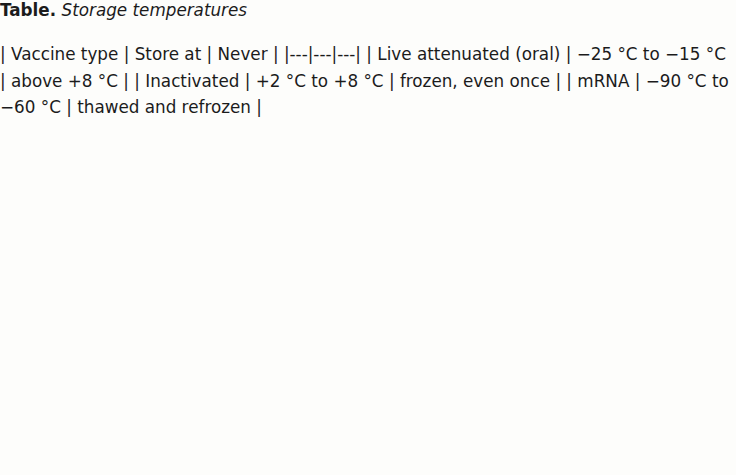
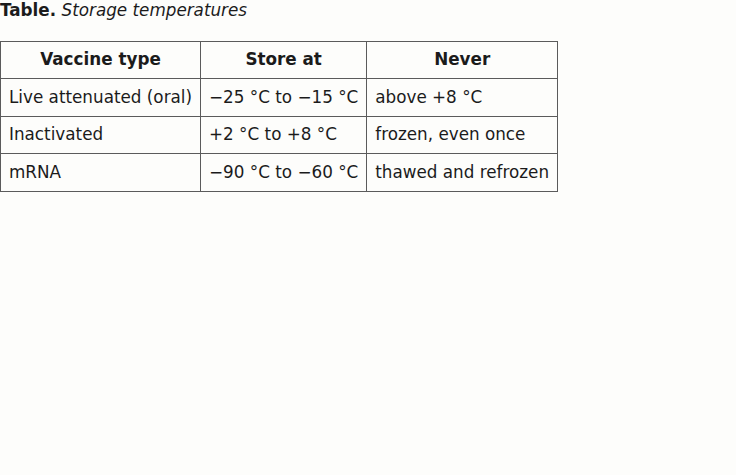
staging(claude-ojcx-edit-handbook): from 746c988705f2138c0e3cae71f51c08640db1aba7
render-log: rendered STAGING/claude-ojcx-edit-handbook

https://github.com/litlfred/folio-test/actions/runs/36095716464

diff --git a/STAGING/claude-ojcx-edit-handbook/review/index.html b/STAGING/claude-ojcx-edit-handbook/review/index.html
@@ -57,7 +57,11 @@
   .heatwrap { overflow-x: auto; margin: 1rem 0; }
   table.heat { border-collapse: separate; border-spacing: 2px; font-size: .95rem; }
   table.heat caption { text-align: left; color: var(--muted); padding-bottom: .4rem; }
-  table.heat th, table.heat td { padding: .35rem .6rem; text-align: left; border-radius: .25rem; }
+  table.heat th, table.heat td { padding: .35rem .6rem; text-align: left; border-radius: .25rem; overflow-wrap: anywhere; }
+  /* Fit the width rather than scroll sideways: a keyboard user cannot reach a
+     scrolled-off column (the ojcx run clipped QA at 1000 px). The wrapper is
+     still focusable, for the narrowest screens. */
+  table.heat { width: 100%; }
   table.heat thead th { font-weight: 600; border-bottom: 1px solid var(--rule); }
   table.heat td { font-variant-numeric: tabular-nums; }
   .h1 { background: #86b6ef; color: #1b1b1b; } .h2 { background: #3987e5; color: #1b1b1b; } .h3 { background: #1c5cab; color: #ffffff; }
@@ -85,13 +89,13 @@ function fill(d,f,r){
   var rel=location.pathname.slice(r.length);
   if(rel===''||rel.charAt(rel.length-1)==='/')rel+='index.html';
   if(!f.mainPagesKnown){
-    d.appendChild(link(f.mainSite+'/','compare with main \u2197'));
+    d.appendChild(link(f.mainSite+'/','compare with '+(f.beforeRef||'main')+' \u2197'));
   }else if(f.newPages.indexOf(rel)>=0){
-    d.appendChild(link(f.mainSite+'/','main \u2197'));
+    d.appendChild(link(f.mainSite+'/',(f.beforeRef||'main')+' \u2197'));
     d.appendChild(document.createTextNode(' '));
     d.appendChild(el('span',{style:'opacity:.85'},'(new page)'));
   }else{
-    d.appendChild(link(f.mainSite+'/'+rel,'compare with main \u2197'));
+    d.appendChild(link(f.mainSite+'/'+rel,'compare with '+(f.beforeRef||'main')+' \u2197'));
   }
   d.appendChild(sep());d.appendChild(link(f.runUrl,'build log'));
   stamp(f);
@@ -131,7 +135,7 @@ window.addEventListener('resize',measure);window.addEventListener('load',measure
   <a href="../index.html">All documents</a>
 </div>
 <div class="viewrow"><label for="view">Show every change as</label> <select id="view"></select></div>
-<div id="heat" class="heatwrap"></div>
+<div id="heat" class="heatwrap" tabindex="0" role="region" aria-label="Heat map: where to look first"></div>
 <div id="changes"></div>
 </main>
 </div>
@@ -344,7 +348,7 @@ var renderVisual = function renderVisual(doc, v, prefix, group) {
   const lg = doc.createElement("legend");
   lg.textContent = "Show";
   fs.appendChild(lg);
-  const stage = doc.createElement("div"), show = (i) => {
+  const stage = doc.createElement("div"), has = (s) => !!(s && s.png), first = views.findIndex(([id]) => id === "diff" || id === "after" && has(v.after) || id === "before" && has(v.before)), start = first < 0 ? 0 : first, show = (i) => {
     while (stage.firstChild)
       stage.removeChild(stage.firstChild);
     stage.appendChild(views[i][2]());
@@ -354,7 +358,7 @@ var renderVisual = function renderVisual(doc, v, prefix, group) {
     r.type = "radio";
     r.name = group;
     r.value = id;
-    r.checked = i === 0;
+    r.checked = i === start;
     r.addEventListener("change", () => show(i));
     l.appendChild(r);
     l.appendChild(doc.createTextNode(" " + label));
@@ -362,7 +366,7 @@ var renderVisual = function renderVisual(doc, v, prefix, group) {
   });
   box.appendChild(fs);
   box.appendChild(stage);
-  show(0);
+  show(start);
   return box;
 };
 var computeHeat = function computeHeat(input) {
@@ -370,7 +374,7 @@ var computeHeat = function computeHeat(input) {
     const k = s || "(listed in no section)";
     let r = rows.get(k);
     if (!r) {
-      r = { section: k, changed: 0, open: 0, defects: 0, stale: 0, qaFailing: 0, qaWorst: null, qaStale: 0, qaUnaudited: 0, qaBlocks: 0, needReview: 0, reviewed: 0 };
+      r = { section: k, changed: 0, open: 0, defects: 0, stale: 0, qaFailing: 0, qaWorst: null, qaStale: 0, qaUnaudited: 0, qaScriptsOnly: 0, qaNeedsAgent: 0, qaJudgedUnknown: 0, qaBlocks: 0, needReview: 0, reviewed: 0 };
       rows.set(k, r);
     }
     return r;
@@ -420,6 +424,14 @@ var computeHeat = function computeHeat(input) {
         r.qaStale++;
       else if (q.state === "unaudited")
         r.qaUnaudited++;
+      else if (q.state === "passing") {
+        if (typeof q.needsAgent !== "number")
+          r.qaJudgedUnknown++;
+        else if (q.needsAgent > 0) {
+          r.qaScriptsOnly++;
+          r.qaNeedsAgent += q.needsAgent;
+        }
+      }
     }
   }
   const order = [...new Set(input.changes.map((c) => (c.head || c.base || {}).section || "(listed in no section)"))], rest = [...rows.keys()].filter((k) => !order.includes(k)).sort(), all = [...order, ...rest].filter((k) => k !== "(listed in no section)");
@@ -445,7 +457,7 @@ var renderHeat = function renderHeat(doc, h, bucket, jump) {
     ["Open comments", "open or addressed; defects in brackets"],
     ["Stale comments", "the block changed after the comment was made: re-read before replying"],
     ["Review coverage", "changed blocks with a reviewer verdict on their current version; resolved comments do not count"],
-    ["QA", "blocks whose latest QA verdicts fail; stale and unaudited blocks are counted, never read as passing"]
+    ["QA", "blocks whose latest QA verdicts fail; stale and unaudited blocks are counted, never read as passing, and a block whose agent-judged criteria have no verdict passes on scripts only"]
   ], head = doc.createElement("thead"), hr = doc.createElement("tr");
   for (const [name, note] of cols) {
     const th = doc.createElement("th");
@@ -501,7 +513,9 @@ var renderHeat = function renderHeat(doc, h, bucket, jump) {
         parts.push(r.qaStale + " stale");
       if (r.qaUnaudited)
         parts.push(r.qaUnaudited + " unaudited");
-      const text = parts.length ? parts.join(" \xB7 ") : r.qaBlocks ? "passing" : "no blocks";
+      if (r.qaScriptsOnly)
+        parts.push(r.qaScriptsOnly + " passing on scripts only (" + r.qaNeedsAgent + " criteria need an agent)");
+      const judged = r.qaJudgedUnknown ? "passing (this build does not say whether agent-judged criteria were run)" : "passing, every applicable criterion judged", text = parts.length ? parts.join(" \xB7 ") : r.qaBlocks ? judged : "no blocks";
       tr.appendChild(cell(text, bucket(r.qaFailing, mx.qa), r.qaFailing + " block(s) failing, " + r.qaStale + " stale, " + r.qaUnaudited + " unaudited, of " + r.qaBlocks, !r.qaFailing && !r.qaStale && !r.qaUnaudited));
     }
     body.appendChild(tr);
@@ -879,6 +893,8 @@ var renderMinimap = function renderMinimap(doc, outline, mark, jumpBlock) {
         (byLabel[c.targetLabel] = byLabel[c.targetLabel] || []).push(c);
       });
       var main = st.mainSite ? String(st.mainSite).replace(/\/?$/, "/") : null;
+      // Which published site is the before side: main's, or a stacked PR's base preview (5uuf).
+      var beforeName = st.beforeRef || "main";
       var s = cs.summary;
       // The head is "worktree" in CI (the checkout under review), which names
       // nothing a reader recognises; the banner's staging.json has the branch.
@@ -888,6 +904,7 @@ var renderMinimap = function renderMinimap(doc, outline, mark, jumpBlock) {
         s.added + " added, " + s.removed + " removed, " + s.changed + " changed (" +
         s.prose + " reworded, " + s.moved + " moved, " + s.renamed + " renamed, " + s.manifest + " edited), " +
         s.unchanged + " unchanged.";
+      if (main) summary.textContent += " Before side: " + beforeName + "'s published site.";
       if (!rc) summary.textContent += " No comment data on this build.";
       else summary.textContent += " " + rc.comments.length + " review comment(s).";
       if (!cs.changes.length) {
@@ -933,7 +950,7 @@ var renderMinimap = function renderMinimap(doc, outline, mark, jumpBlock) {
           var after = c.change !== "removed" ? href("../", c.head, c.label) : null;
           var before = c.change !== "added" && main ? href(main, c.base, c.from || c.label) : null;
           if (after) { var a = el("a", "view on this preview"); a.href = after; links.appendChild(a); }
-          if (before) { var b = el("a", "view on main"); b.href = before; links.appendChild(b); }
+          if (before) { var b = el("a", "view on " + beforeName); b.href = before; links.appendChild(b); }
           if (!after && !before) links.appendChild(el("span", "no page to link to", "muted"));
           li.appendChild(links);
           var v = viewSelector({

diff --git a/STAGING/claude-ojcx-edit-handbook/cold-chain/index.html b/STAGING/claude-ojcx-edit-handbook/cold-chain/index.html
@@ -34,13 +34,13 @@ function fill(d,f,r){
   var rel=location.pathname.slice(r.length);
   if(rel===''||rel.charAt(rel.length-1)==='/')rel+='index.html';
   if(!f.mainPagesKnown){
-    d.appendChild(link(f.mainSite+'/','compare with main \u2197'));
+    d.appendChild(link(f.mainSite+'/','compare with '+(f.beforeRef||'main')+' \u2197'));
   }else if(f.newPages.indexOf(rel)>=0){
-    d.appendChild(link(f.mainSite+'/','main \u2197'));
+    d.appendChild(link(f.mainSite+'/',(f.beforeRef||'main')+' \u2197'));
     d.appendChild(document.createTextNode(' '));
     d.appendChild(el('span',{style:'opacity:.85'},'(new page)'));
   }else{
-    d.appendChild(link(f.mainSite+'/'+rel,'compare with main \u2197'));
+    d.appendChild(link(f.mainSite+'/'+rel,'compare with '+(f.beforeRef||'main')+' \u2197'));
   }
   d.appendChild(sep());d.appendChild(link(f.runUrl,'build log'));
   stamp(f);
@@ -73,14 +73,35 @@ window.addEventListener('resize',measure);window.addEventListener('load',measure
 <h3>Overview</h3>
 <p><a id="prose:overview"></a>
 <strong>Overview.</strong></p>
-<p>Vaccines lose potency when they are stored outside their temperature range, and the loss cannot be seen. This handbook sets out how to keep every vaccine in its range, from the national store to the vaccination session, and what to do when a vaccine leaves it.</p>
+<p>Vaccines lose potency when they are stored outside their temperature range, and the loss cannot be seen. This handbook sets out how to keep every vaccine in its range, from the national store to the vaccination session, and what to do when a vaccine leaves it, including whom to tell.</p>
 <p><a id="tbl:storage-temperatures"></a>
 <strong>Table.</strong> <em>Storage temperatures</em></p>
-<p>| Vaccine type | Store at | Never |
-|---|---|---|
-| Live attenuated (oral) | −25 °C to −15 °C | above +8 °C |
-| Inactivated | +2 °C to +8 °C | frozen, even once |
-| mRNA | −90 °C to −60 °C | thawed and refrozen |</p>
+<table>
+<thead>
+<tr>
+<th>Vaccine type</th>
+<th>Store at</th>
+<th>Never</th>
+</tr>
+</thead>
+<tbody>
+<tr>
+<td>Live attenuated (oral)</td>
+<td>−25 °C to −15 °C</td>
+<td>above +8 °C</td>
+</tr>
+<tr>
+<td>Inactivated</td>
+<td>+2 °C to +8 °C</td>
+<td>frozen, even once</td>
+</tr>
+<tr>
+<td>mRNA</td>
+<td>−90 °C to −60 °C</td>
+<td>thawed and refrozen</td>
+</tr>
+</tbody>
+</table>
 
 </main>
 </body>

diff --git a/STAGING/claude-ojcx-edit-handbook/index.html b/STAGING/claude-ojcx-edit-handbook/index.html
@@ -34,13 +34,13 @@ function fill(d,f,r){
   var rel=location.pathname.slice(r.length);
   if(rel===''||rel.charAt(rel.length-1)==='/')rel+='index.html';
   if(!f.mainPagesKnown){
-    d.appendChild(link(f.mainSite+'/','compare with main \u2197'));
+    d.appendChild(link(f.mainSite+'/','compare with '+(f.beforeRef||'main')+' \u2197'));
   }else if(f.newPages.indexOf(rel)>=0){
-    d.appendChild(link(f.mainSite+'/','main \u2197'));
+    d.appendChild(link(f.mainSite+'/',(f.beforeRef||'main')+' \u2197'));
     d.appendChild(document.createTextNode(' '));
     d.appendChild(el('span',{style:'opacity:.85'},'(new page)'));
   }else{
-    d.appendChild(link(f.mainSite+'/'+rel,'compare with main \u2197'));
+    d.appendChild(link(f.mainSite+'/'+rel,'compare with '+(f.beforeRef||'main')+' \u2197'));
   }
   d.appendChild(sep());d.appendChild(link(f.runUrl,'build log'));
   stamp(f);
